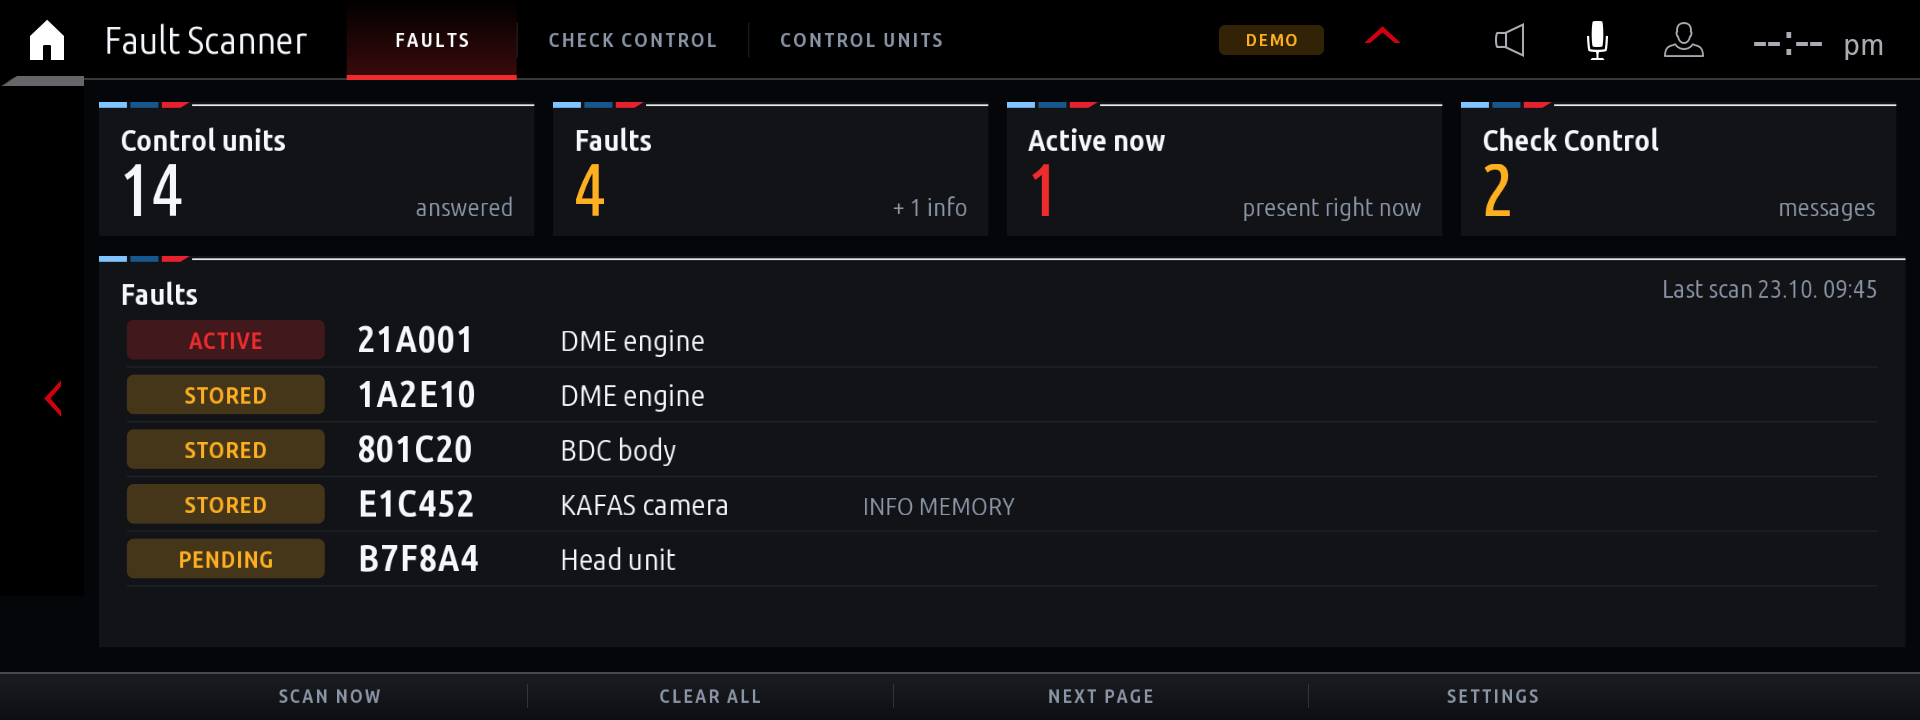
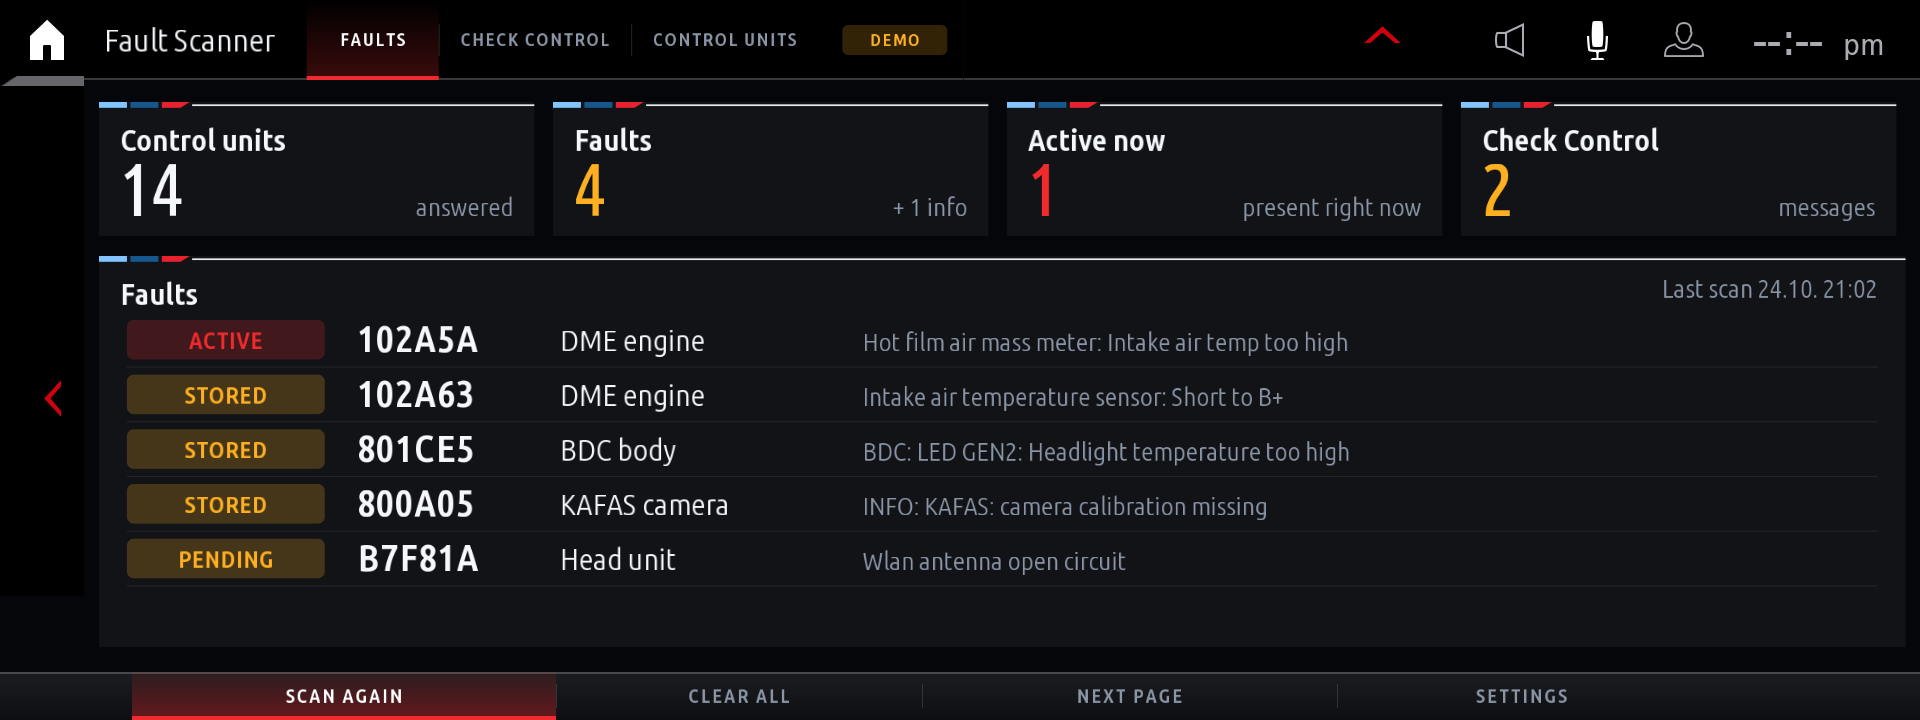
Fault Scanner 2.6.2: demo scan with real fault codes, new screenshot

diff --git a/apps/dtc_scanner/demo.js b/apps/dtc_scanner/demo.js
@@ -1,12 +1,12 @@
 'use strict';
-/** Made-up scan result for demo mode (shown with a DEMO badge). */
+/** Scan result for demo mode (shown with a DEMO badge): real fault codes, so their texts show. */
 const f = (code, status, mem) => ({ code, status, mem: mem || 'fault' });
 module.exports = {
     ecus: [
-        { addr: 0x12, dtcs: [f('21A001', 0x09), f('1A2E10', 0x08)] },
-        { addr: 0x40, dtcs: [f('801C20', 0x08)] },
-        { addr: 0x63, dtcs: [f('B7F8A4', 0x0C)] },
-        { addr: 0x5D, dtcs: [f('E1C452', 0x28, 'info')] },
+        { addr: 0x12, dtcs: [f('102A5A', 0x09), f('102A63', 0x08)] },
+        { addr: 0x40, dtcs: [f('801CE5', 0x08)] },
+        { addr: 0x63, dtcs: [f('B7F81A', 0x0C)] },
+        { addr: 0x5D, dtcs: [f('800A05', 0x28, 'info')] },
         { addr: 0x01, dtcs: [] }, { addr: 0x10, dtcs: [] }, { addr: 0x18, dtcs: [] }, { addr: 0x29, dtcs: [] },
         { addr: 0x30, dtcs: [] }, { addr: 0x56, dtcs: [] }, { addr: 0x60, dtcs: [] }, { addr: 0x64, dtcs: [] },
         { addr: 0x67, dtcs: [] }, { addr: 0x78, dtcs: [] },

diff --git a/README.md b/README.md
@@ -103,7 +103,7 @@ More in [How apps draw](#44-how-apps-draw-remote-hmi-rhmi) and [`kit/renderd`](k
 <td><img src="docs/screens/dyno.png" alt="Virtual Dyno"><br><b>Virtual Dyno</b>: power and torque curve from a pull</td>
 </tr>
 <tr>
-<td><img src="docs/screens/dtc_scanner.png" alt="Fault Scanner"><br><b>Fault Scanner</b>: fault codes of every control unit</td>
+<td><img src="docs/screens/dtc_scanner.png" alt="Fault Scanner"><br><b>Fault Scanner</b>: fault codes of every control unit, with their texts</td>
 <td><img src="docs/screens/redline.png" alt="Redline"><br><b>Redline</b>: G20-style rev bar, big gear, shift scoring</td>
 </tr>
 </table>
